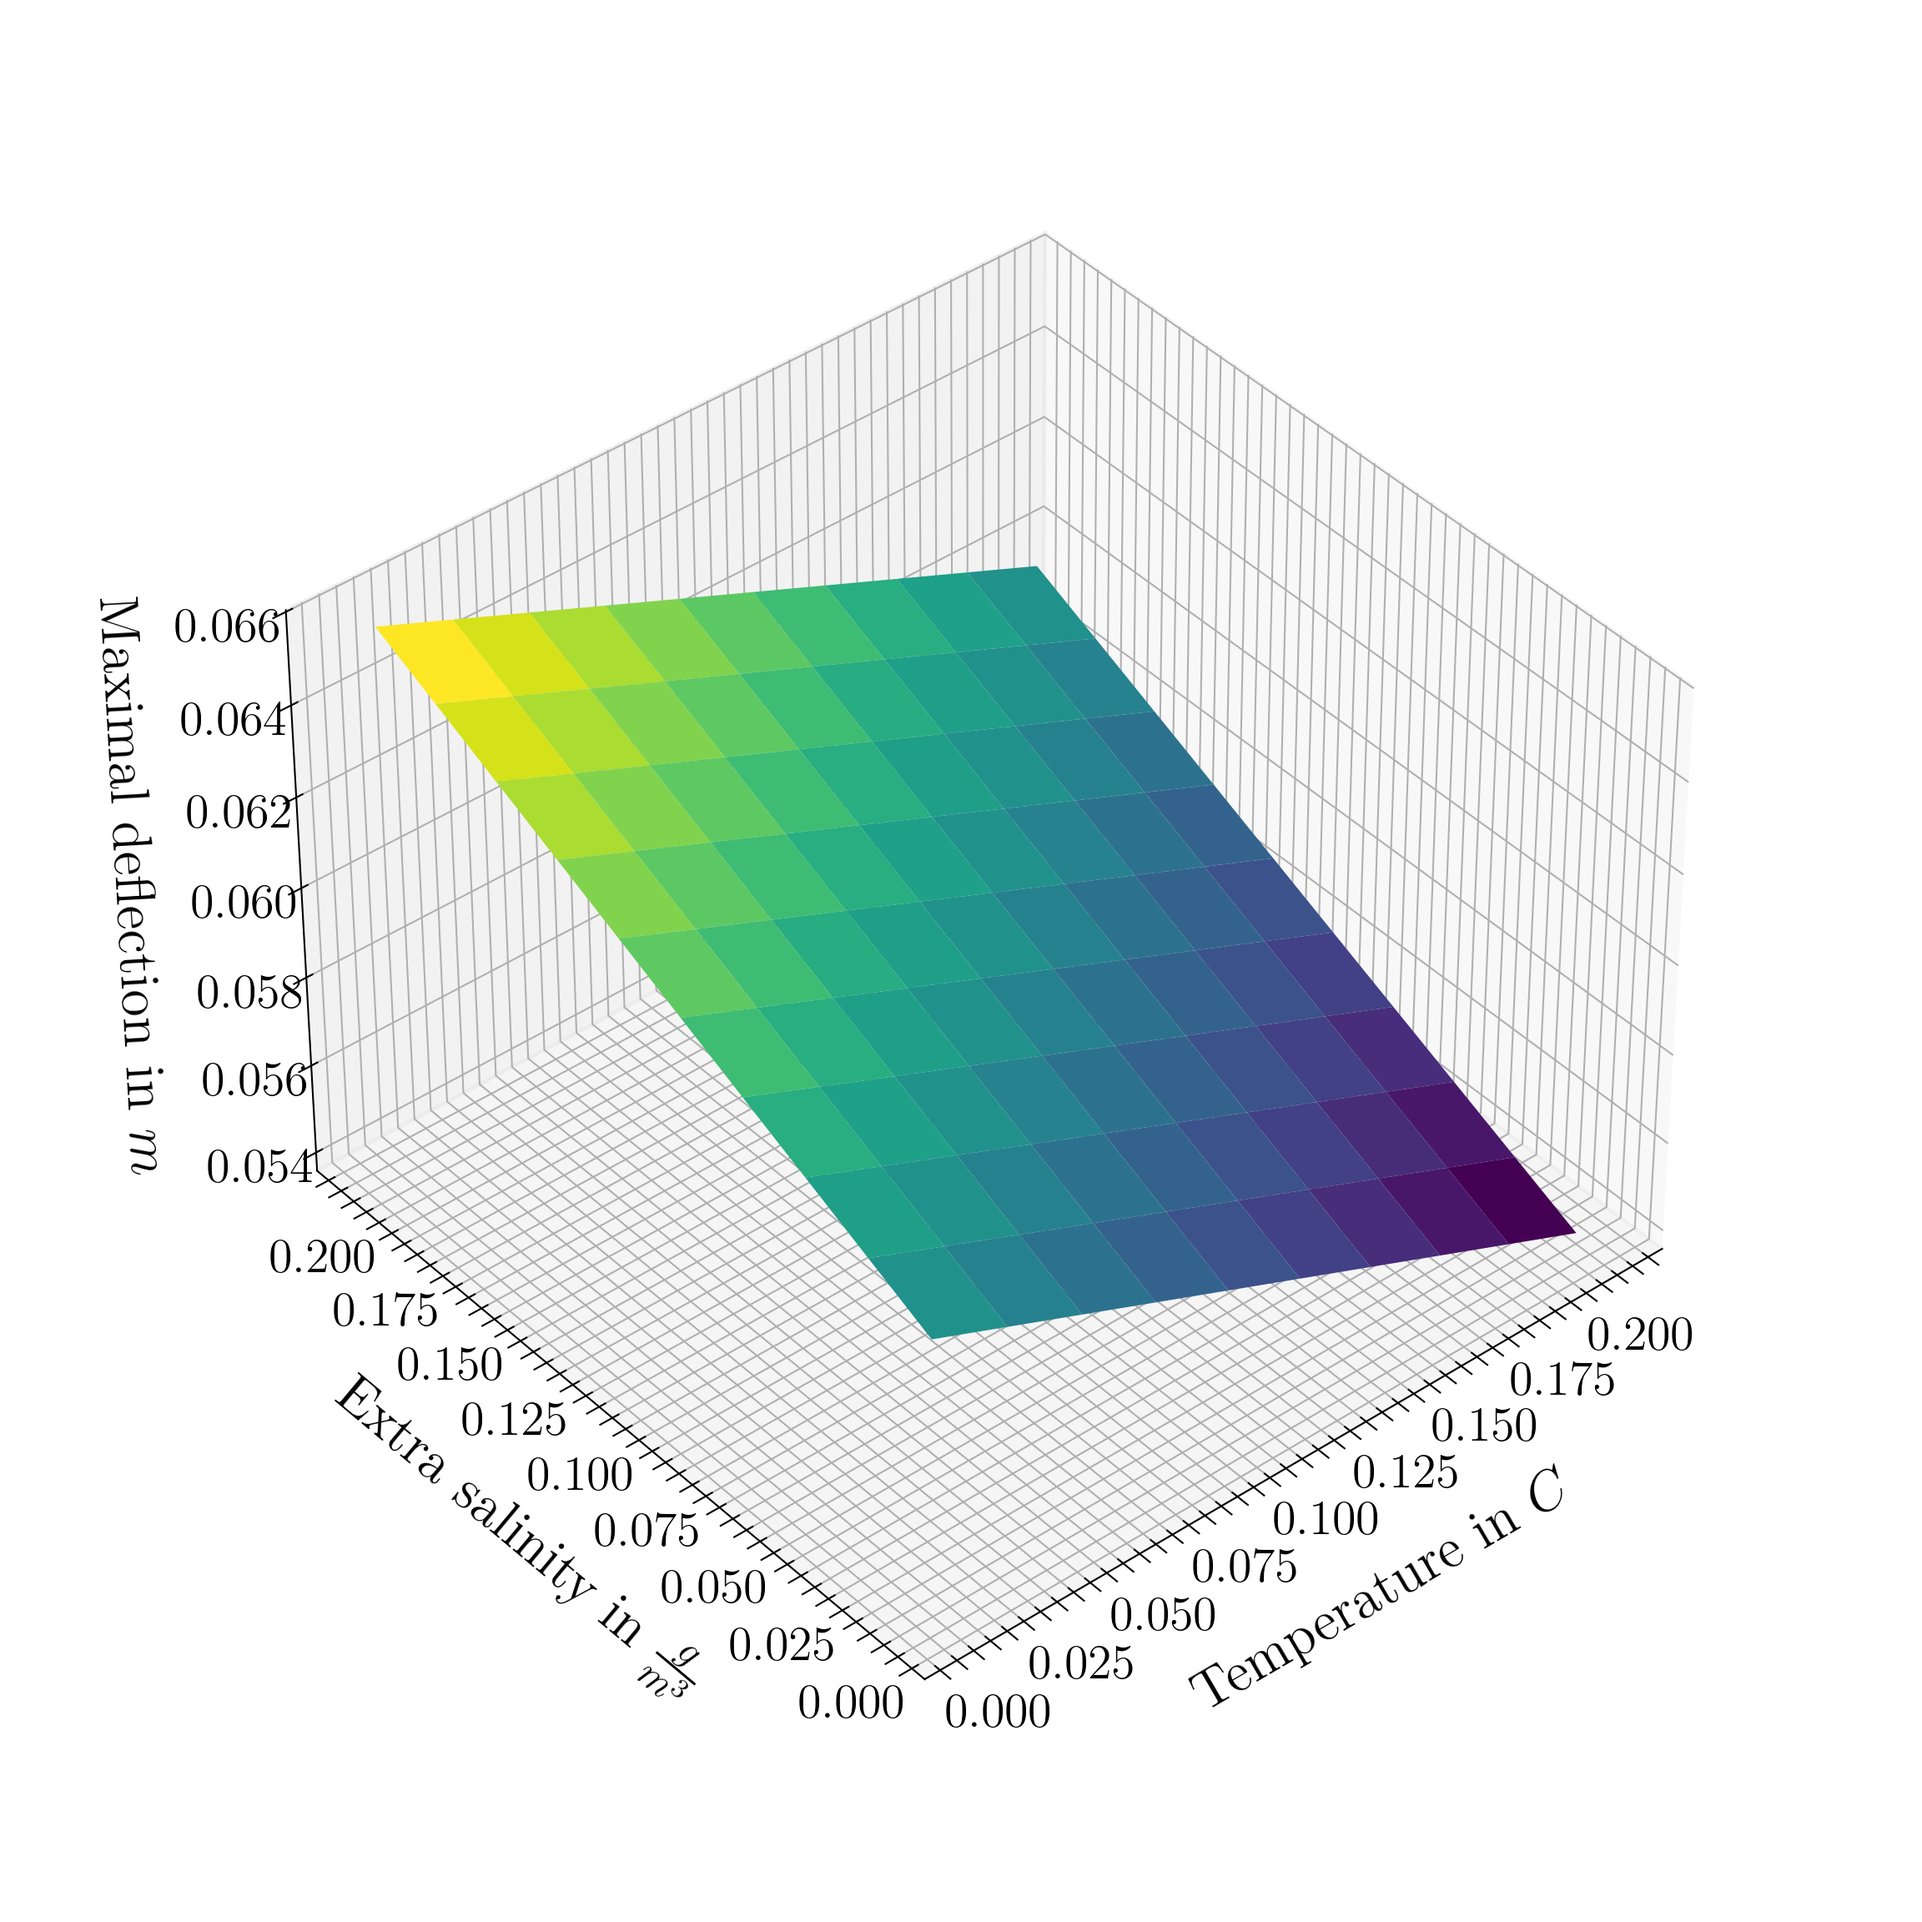
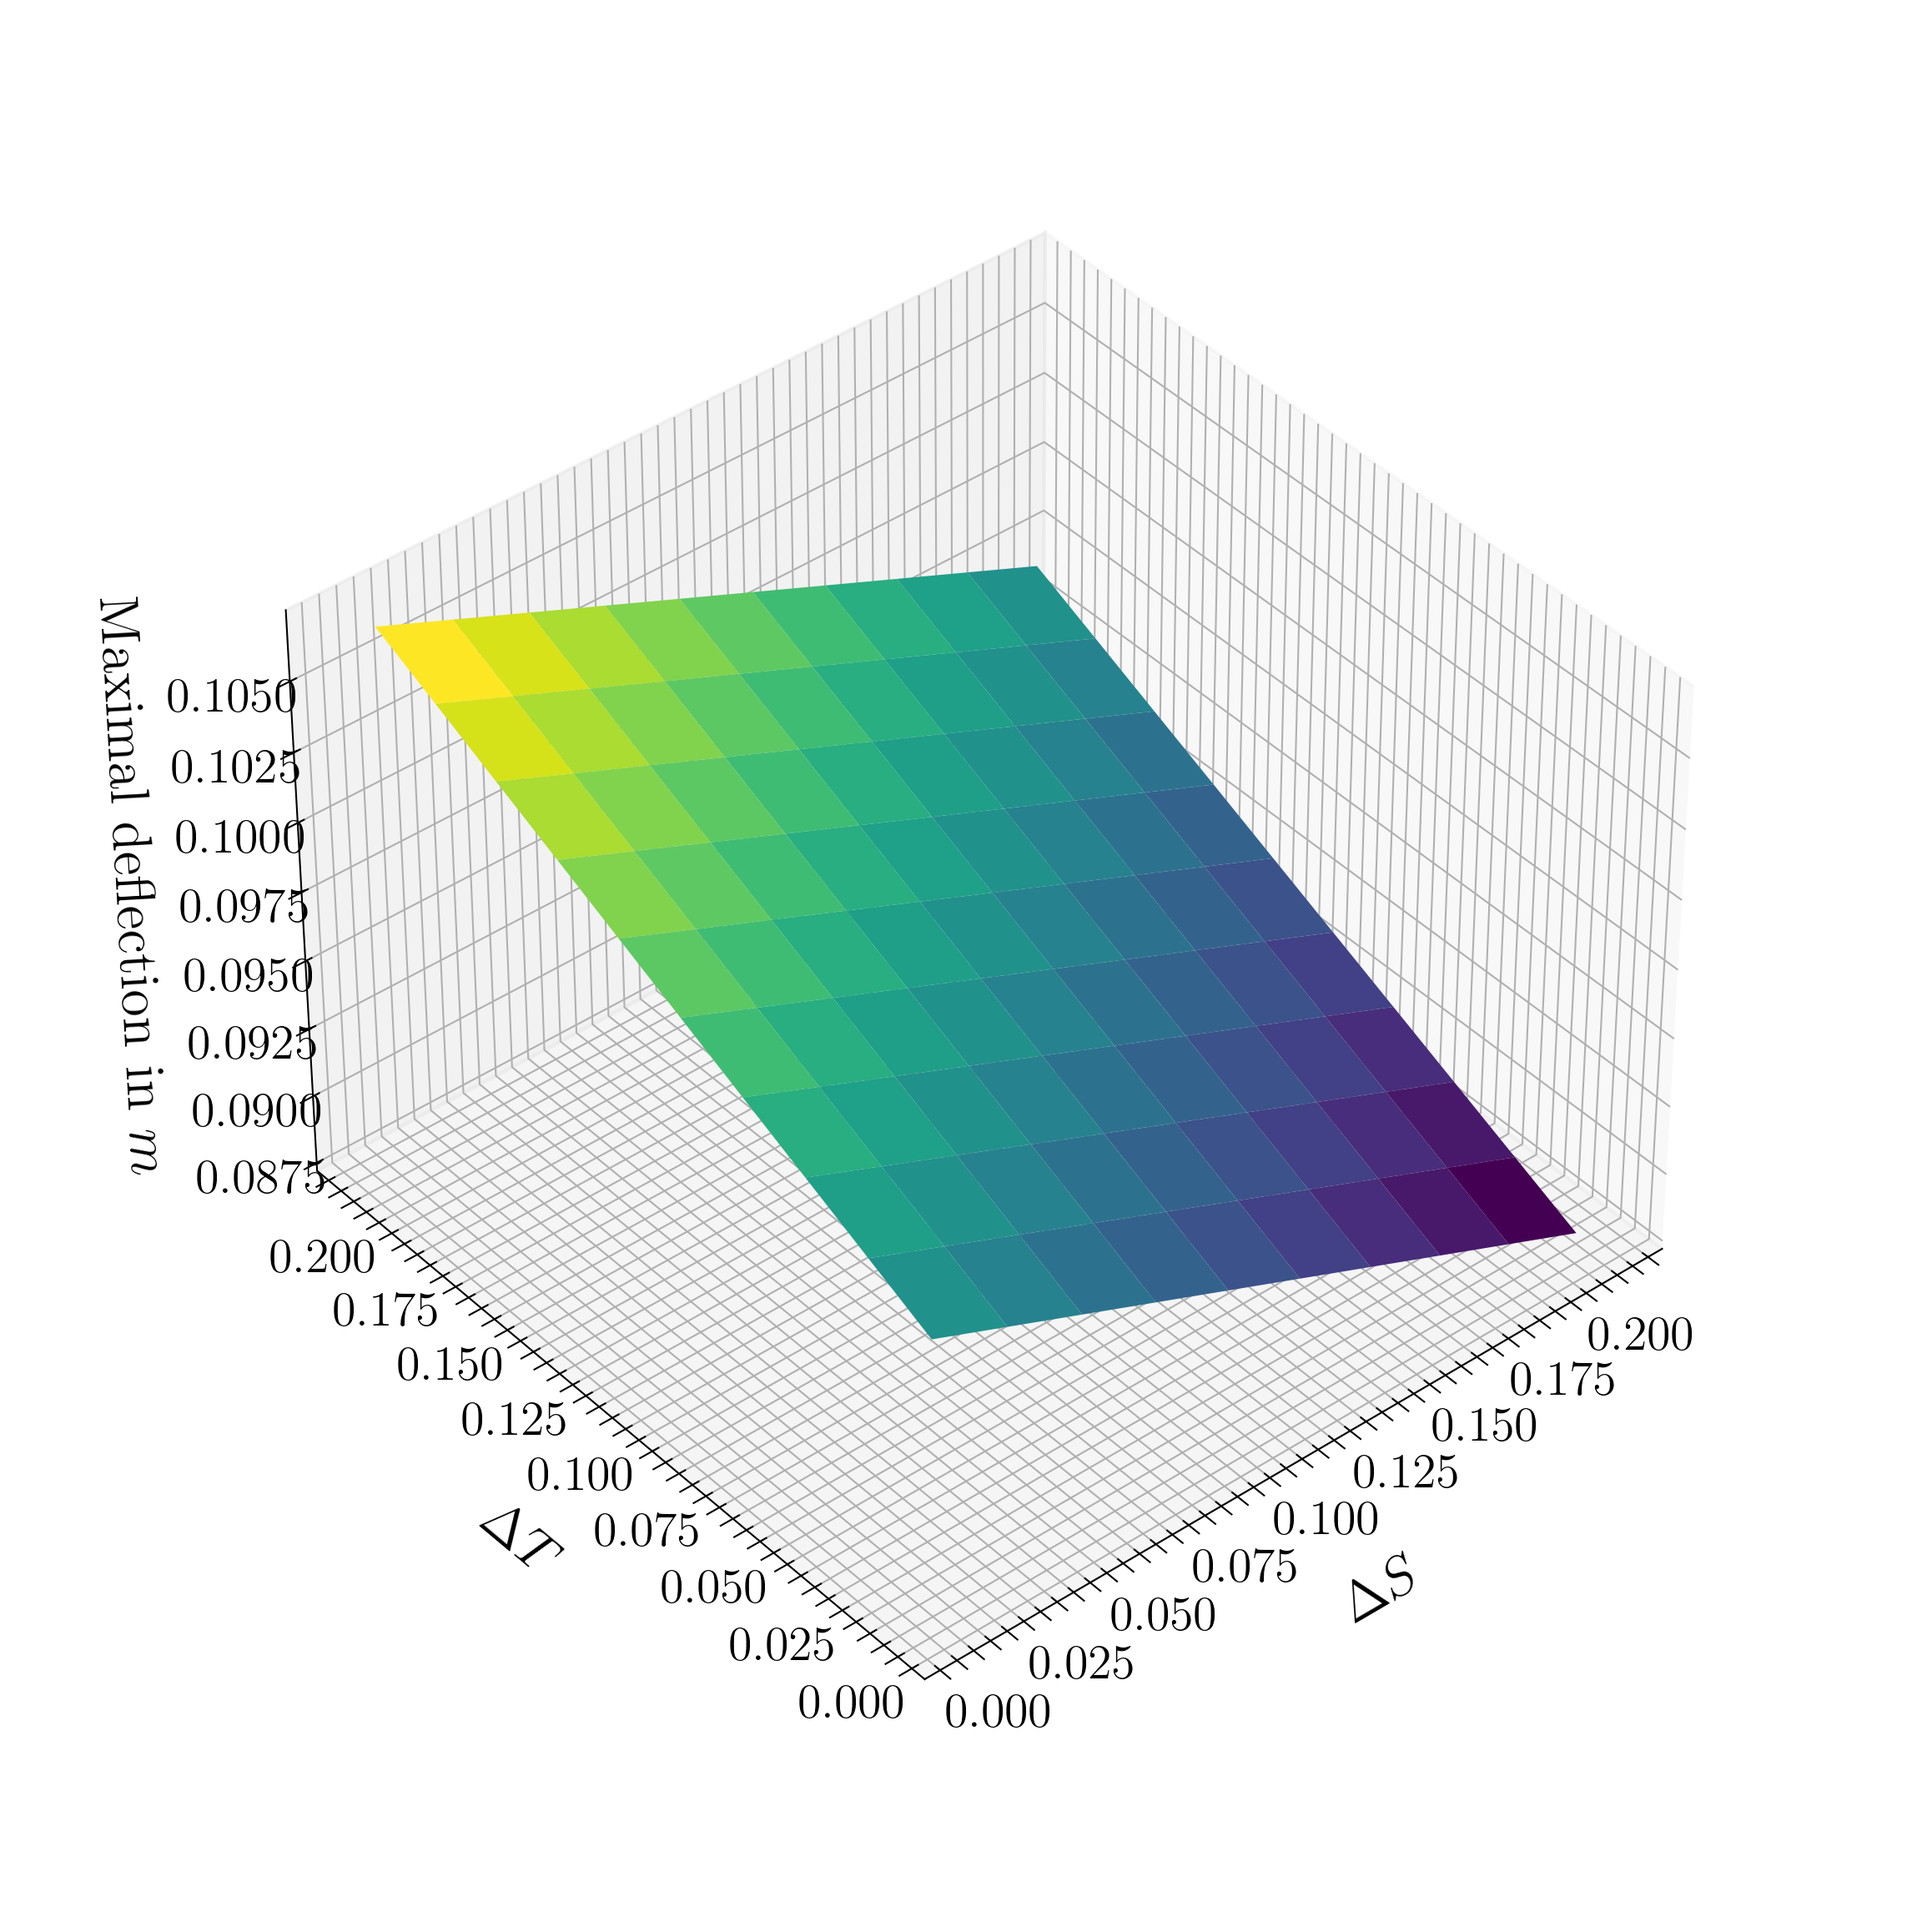
everything is different yayu

diff --git a/PhiCalc.py b/PhiCalc.py
@@ -515,14 +515,14 @@ def b_list(lambda_list: list):
 
 
 def BEQ(
-    t_end: float = 5,
+    t_end: float = 30,
     t_start: float = 0,
     l: int = 150,
     t_n: int = 50,
     l_n: int = 50,
     A=A,
     rho_water=rho_water,
-    T=T,
+    T=0,
     flatten=True,
 ) -> list:
     # * Constants
@@ -627,7 +627,7 @@ def BEQ(
                 W_total.append([t_step, h, W(h)])
         else:
             for h_count, h in enumerate(heights):
-                W_non_flattened[h_count, t_count] = W(h)
+                W_non_flattened[t_count, h_count] = W(h)
 
     if flatten:
         return W_total
@@ -659,7 +659,7 @@ def get_xyz(W):
 @cache
 def surf():
     plt.style.use(["science"])
-    data = BEQ(t_end=30, dt=0.25, l=150, dl=10)
+    data = BEQ(t_end=30, t_n=1000, l=150, l_n=1000)
     x, y, z = get_xyz(data)
     fig = plt.figure(figsize=(10, 8))
     ax = plt.axes(projection="3d")
@@ -683,10 +683,10 @@ def surf():
 @cache
 def tricolormap():
     plt.style.use(["science"])
-    time, height, z = BEQ(t_end=30, dt=0.1, l=150, dl=0.5, flatten=False)
+    time, height, z = BEQ(t_end=35, t_n=1000, l=150, l_n=1000, flatten=False)
 
     levels = np.linspace(z.min(), z.max(), 10)
-
+    norm = plt.Normalize(vmin=-0.1, vmax=0.1, clip=True)
     # plot:
     fig, ax = plt.subplots(figsize=(10, 8))
 
@@ -702,10 +702,13 @@ def tricolormap():
     X, Y = np.meshgrid(time, height)
     Z = z
     # ax.contourf(X, Y, Z, levels=levels)
-    pos = ax.pcolormesh(X, Y, Z)
+    pos = ax.pcolormesh(X, Y, Z, norm=norm)
     # pos = ax.imshow(Z, cmap="Blues", interpolation="none")
     fig.colorbar(
-        pos, ax=ax, label="Deflection of the beam in $m$", orientation="horizontal"
+        pos,
+        ax=ax,
+        label="Deflection of the beam in $m$",
+        orientation="horizontal",
     )
     # ax.tripcolor([x, y], z)
 
@@ -724,7 +727,7 @@ def top_of_beam_tu_diagram():
     plt.style.use(["science"])
     # make data
     time, height, z = BEQ(
-        t_end=40, dt=0.1, l=150, dl=150, flatten=False, rho_water=1023
+        t_end=40, t_n=500, l_n=10, l=150, flatten=False, rho_water=1023
     )
 
     # plot
@@ -743,20 +746,20 @@ def top_of_beam_tu_diagram():
     plt.show()
 
 
+# top_of_beam_tu_diagram()
+
 # bop = BEQ()
 # for time in bop:
 #     print(f"at time {time[0]} the beam has deviations{time[1]}")
-# top_of_beam_tu_diagram()
 
 
 # * The maximum deviation
 @cache
 def max_dev(rho_w=rho_water, t_end=10):
-    dt = 1
-    l = 150
-    dl = 10
 
-    U_t = BEQ(t_end=t_end, dt=dt, l=l, dl=dl, rho_water=rho_w, T=T)
+    l = 150
+
+    U_t = BEQ(t_end=30, t_n=30, l=l, l_n=10, rho_water=rho_w)
     bigollist = []
     max_val = 0
 
@@ -769,6 +772,8 @@ def max_dev(rho_w=rho_water, t_end=10):
     min_val = (bigollist)[0]
     return max(abs(min_val), abs(max_val))
 
+
+# print(max_dev(rho_w=1023))
 
 dt = 1 / 10
 t_end = 5
@@ -792,10 +797,9 @@ def Ext_1_Surf():
     N_S = 10
     T = np.linspace(0, 0.2, N_T)
     S = np.linspace(0, 0.2, N_S)
-    S_mesh, T_mesh = np.meshgrid(T, S)
+    S_mesh, T_mesh = np.meshgrid(S, T)
     U_max = np.zeros((N_S, N_T))
     rws = 1030
-    Z = np.empty((N_S, N_T))
 
     for s_count, s in enumerate(S):
         for t_count, t in enumerate(T):
@@ -809,8 +813,8 @@ def Ext_1_Surf():
     ax.set_box_aspect(aspect=None, zoom=0.8)
     ax.view_init(elev=40, azim=-130)
     ax.plot_surface(S_mesh, T_mesh, U_max, cmap="viridis")
-    ax.set_xlabel(r"Temperature in $C$", labelpad=15)
-    ax.set_ylabel(r"Extra salinity in $\frac{g}{m^3}$", labelpad=15)
+    ax.set_xlabel(r"$\Delta S$", labelpad=15)
+    ax.set_ylabel(r"$\Delta T$", labelpad=15)
     ax.set_zlabel(r"Maximal deflection in $m$", labelpad=15)
 
     # -------------------BEGIN-CHANGES------------------------
@@ -1005,14 +1009,15 @@ def get_table():
     salts = np.round(np.linspace(0, 300, n_salt), 3)
     temperatures = np.linspace(20, 50, n_temp)
 
-    max_dev
-
     for n_salt, salt in enumerate(salts):
         for n_temp, temp in enumerate(temperatures):
             table[n_salt][n_temp] = round(
                 100 * max_dev(rho_w=(rho_water_calc(temp) + salt)), 3
             )
 
+    df1 = pd.DataFrame(table)
+
+    df1.to_excel("output.xlsx")
     print(table)
 
 
@@ -1114,4 +1119,4 @@ def window_tricolormap():
     plt.show()
 
 
-window_tricolormap()
+# window_tricolormap()
